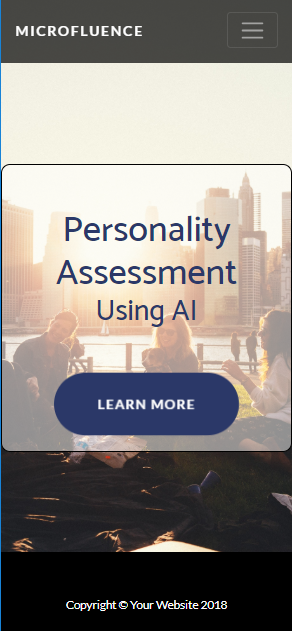
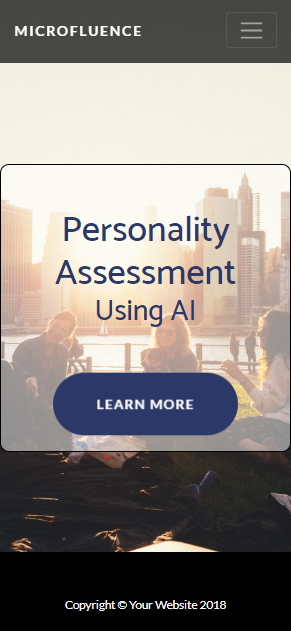
changed picture/updated borders and padding

diff --git a/index.html b/index.html
@@ -87,7 +87,7 @@
       <div class="container" id="outline">
 
         <!-- Featured Project Row -->
-        <div class="row align-items-center no-gutters mb-4 mb-lg-5">
+        <div class="row align-items-center no-gutters mb-4 mb-lg-5 paddtop bordbot">
           <div class="col-xl-6 col-lg-6">
             <img class="img-fluid mb-3 mb-lg-0" src="startbootstrap-grayscale-gh-pages\startbootstrap-grayscale-gh-pages\img\amazon.png" id="adjusted" alt="amazon app">
           </div>
@@ -99,7 +99,7 @@
           </div>
         </div>
 
-        <div class="row align-items-center no-gutters mb-4 mb-lg-5">
+        <div class="row align-items-center no-gutters mb-4 mb-lg-5 bordbot" id="personalityPad">
           <div class="col-xl-6 col-lg-6">
             <img class="img-fluid mb-3 mb-lg-0" src="startbootstrap-grayscale-gh-pages\startbootstrap-grayscale-gh-pages\img\personality.png" id="adjusted2" alt="personality app">
           </div>
@@ -111,6 +111,8 @@
             </div>
           </div>
         </div>
+
+
         <h2 id="websites">Websites</h2>
         <!-- Project One Row -->
         <div class="row justify-content-center no-gutters mb-5 mb-lg-0">

diff --git a/style.css b/style.css
@@ -35,6 +35,21 @@ h1 {
 	padding-bottom: 20px;
 }
 
+.paddtop {
+	padding-top: 20px;
+	padding-bottom: 20px;
+}
+
+.bordbot {
+	border-bottom: 1px black solid;
+}
+
+#personalityPad {
+	margin-top: -27px;
+	margin-bottom: 20px;
+	padding-bottom: 20px;
+}
+
 #adjusted {
 	float: right;
 	border: solid 1px black;
